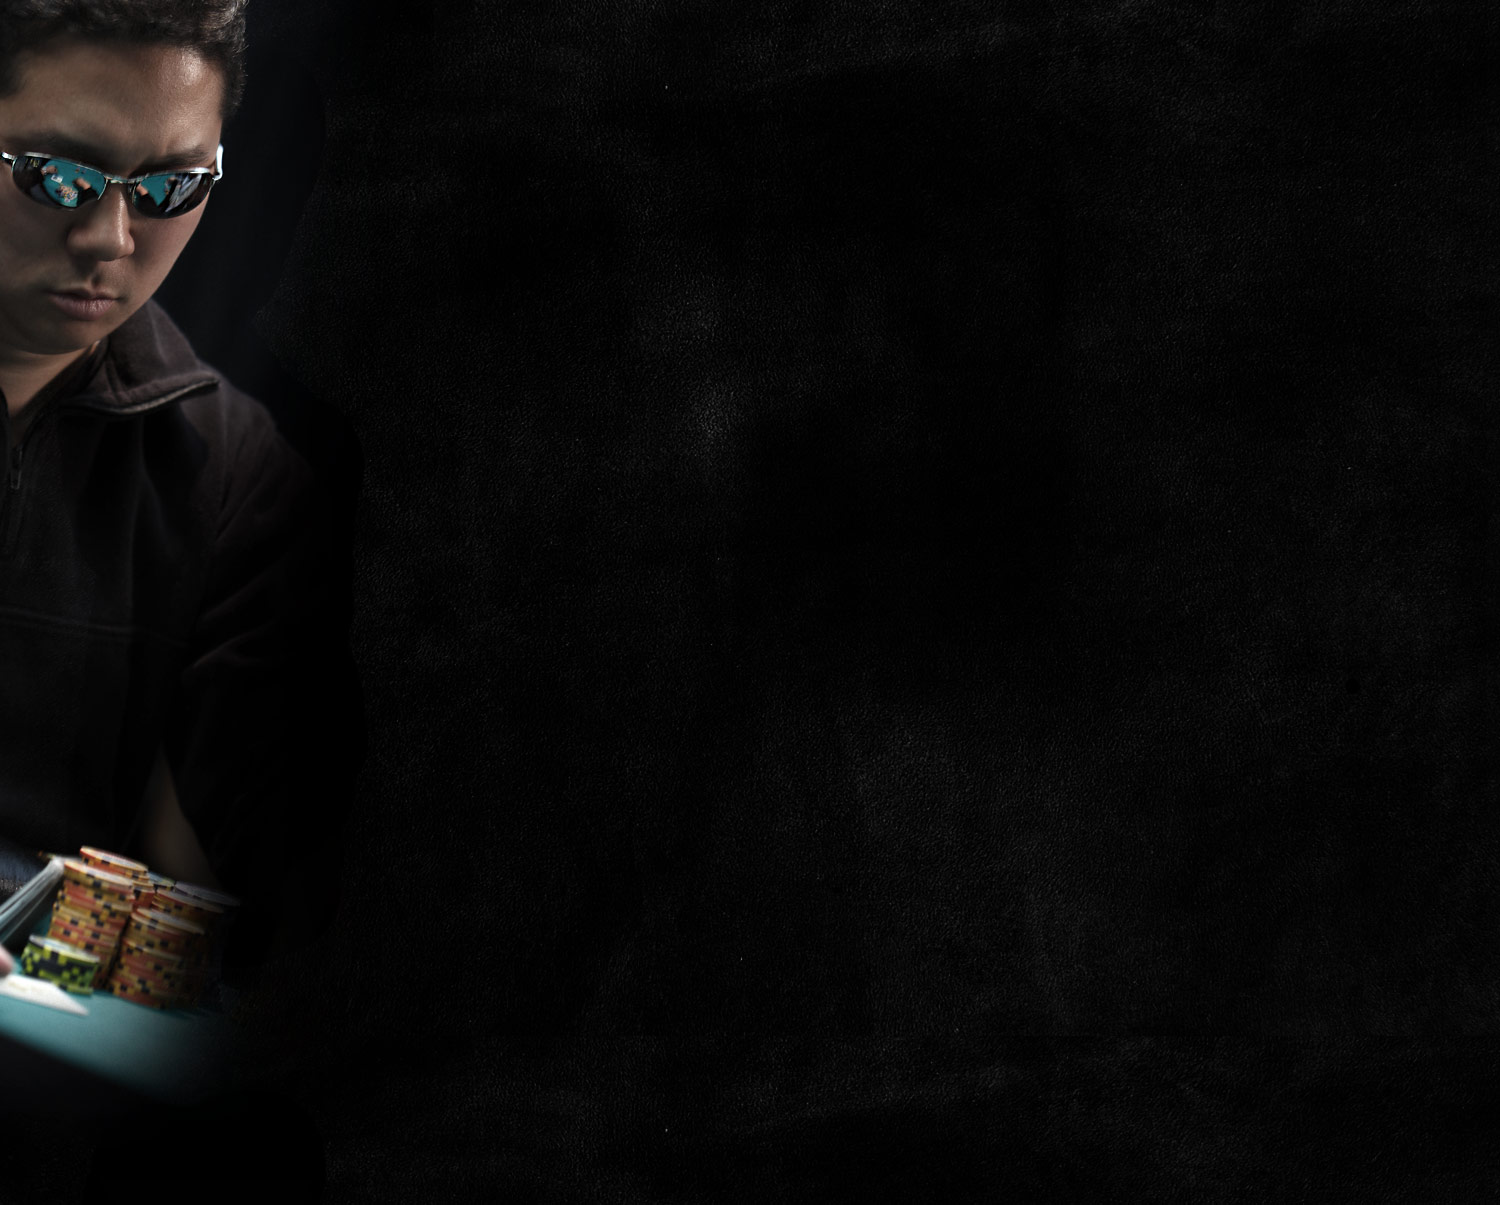
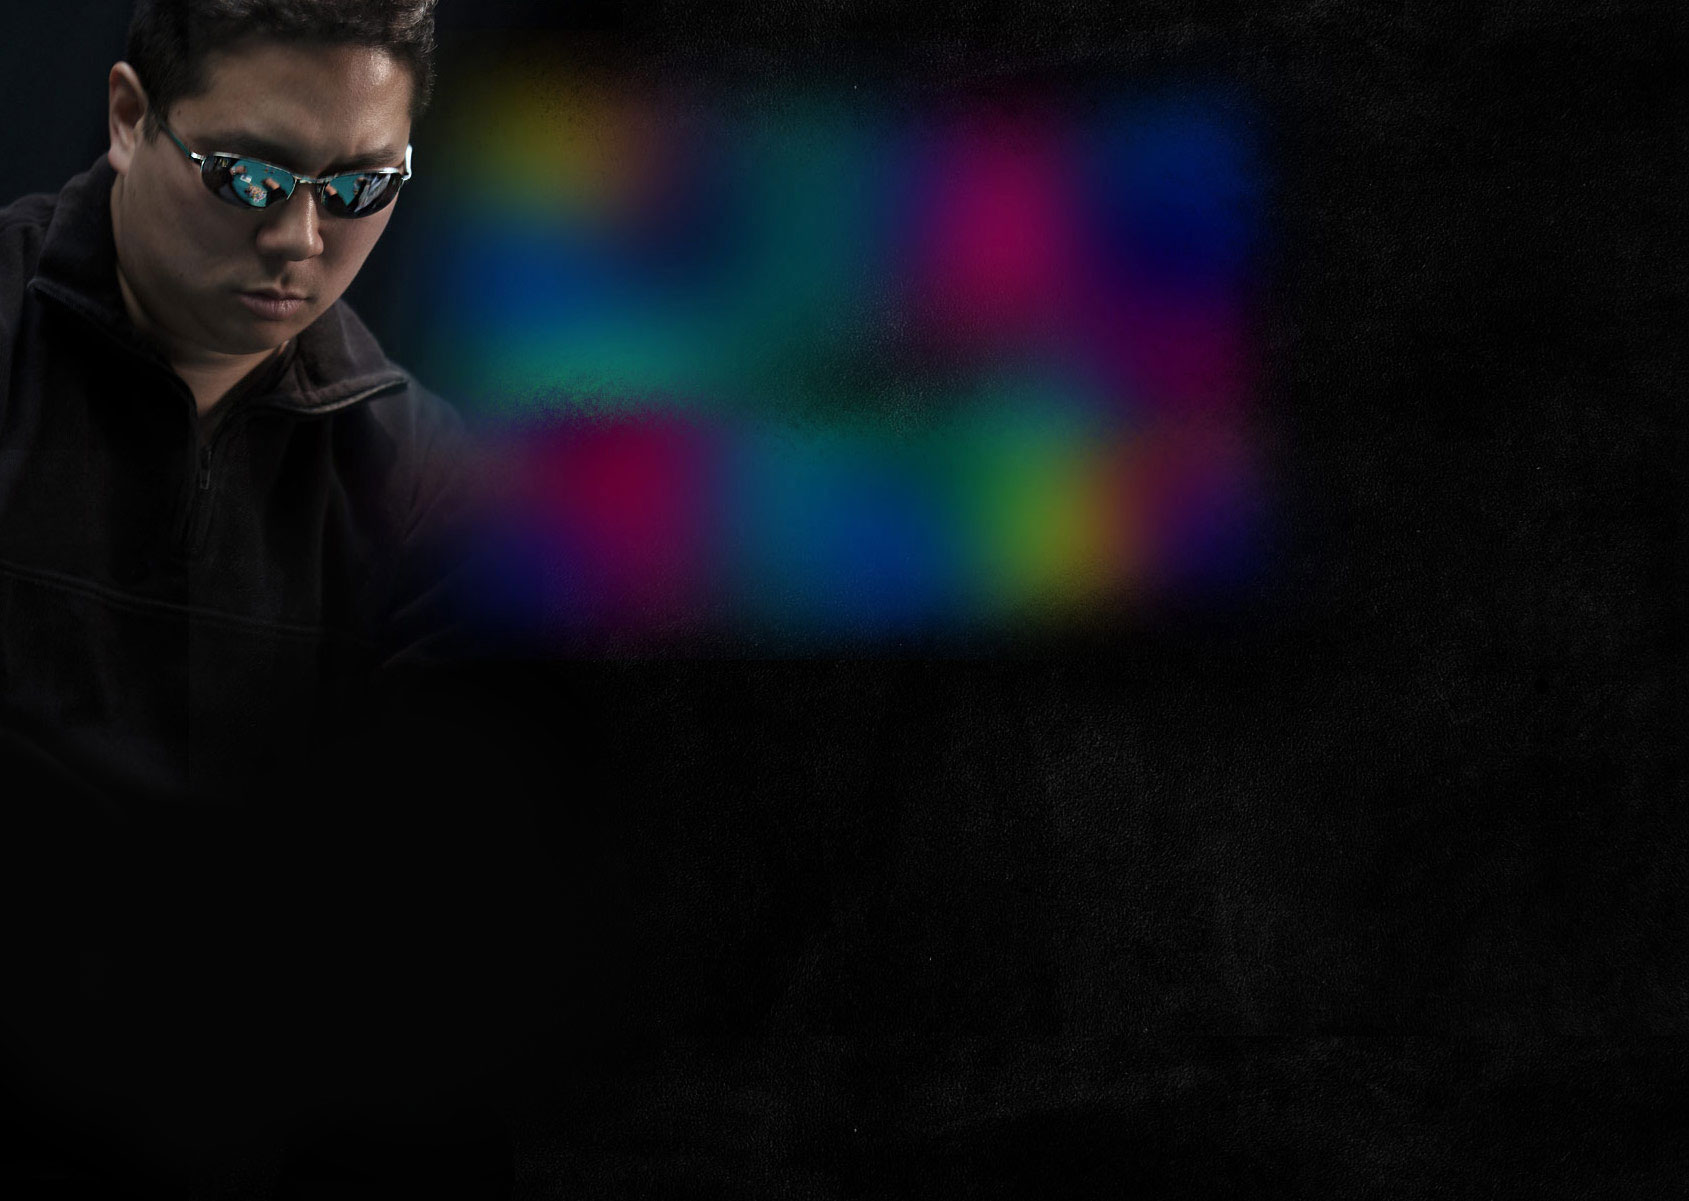
Tweaked background image.

Changed region(s): [[0.0, 0.0, 0.7667, 0.5545], [0.0, 0.647, 0.1533, 0.8934]]

diff --git a/twentyeleven_blp/style.css b/twentyeleven_blp/style.css
@@ -69,7 +69,7 @@ footer, header, hgroup, menu, nav, section {
 ----------------------------------------------- */
 
 body {
-	background: url(images/body_bg_2.jpg) top center no-repeat #030303;
+	background: url(images/body_bg.jpg) top center no-repeat #030303;
 	padding: 0 2em;
 }
 #page {
